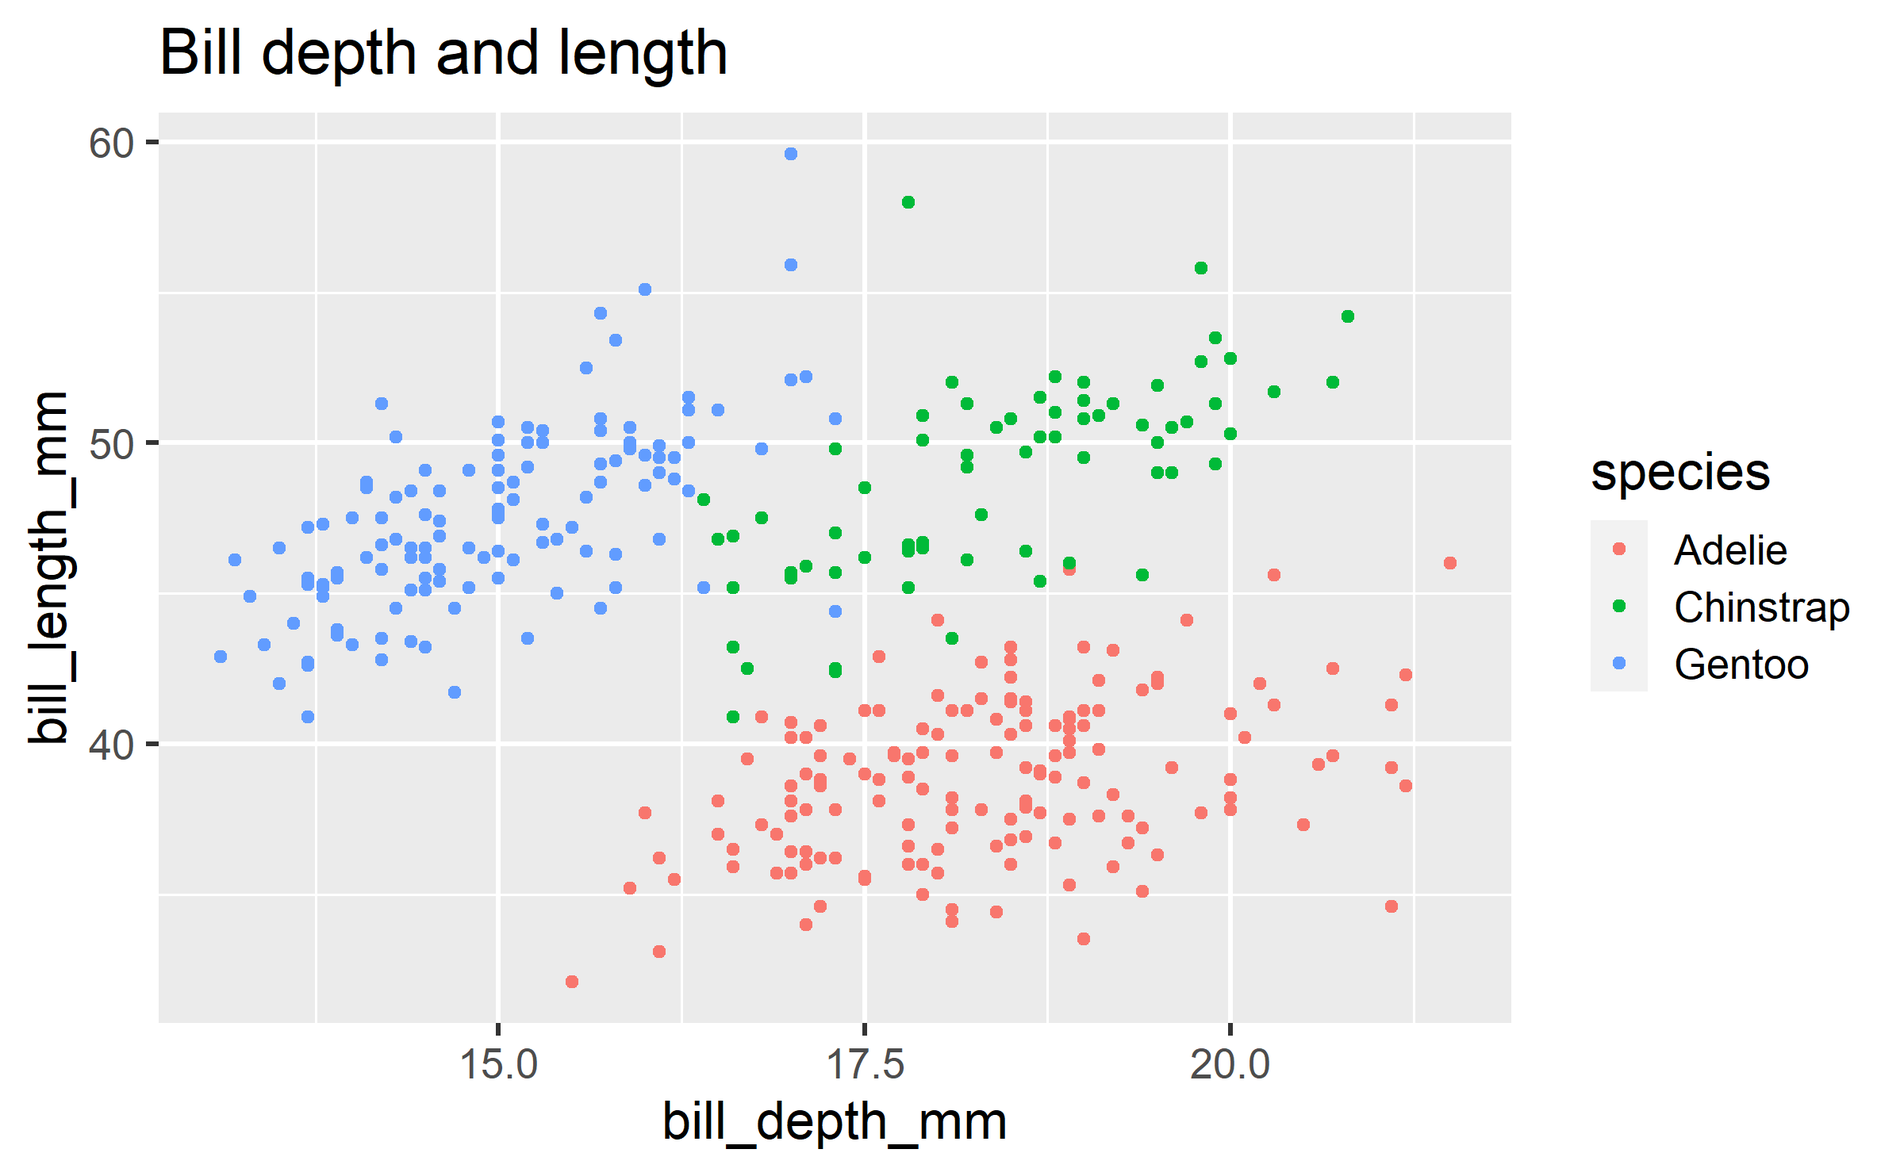
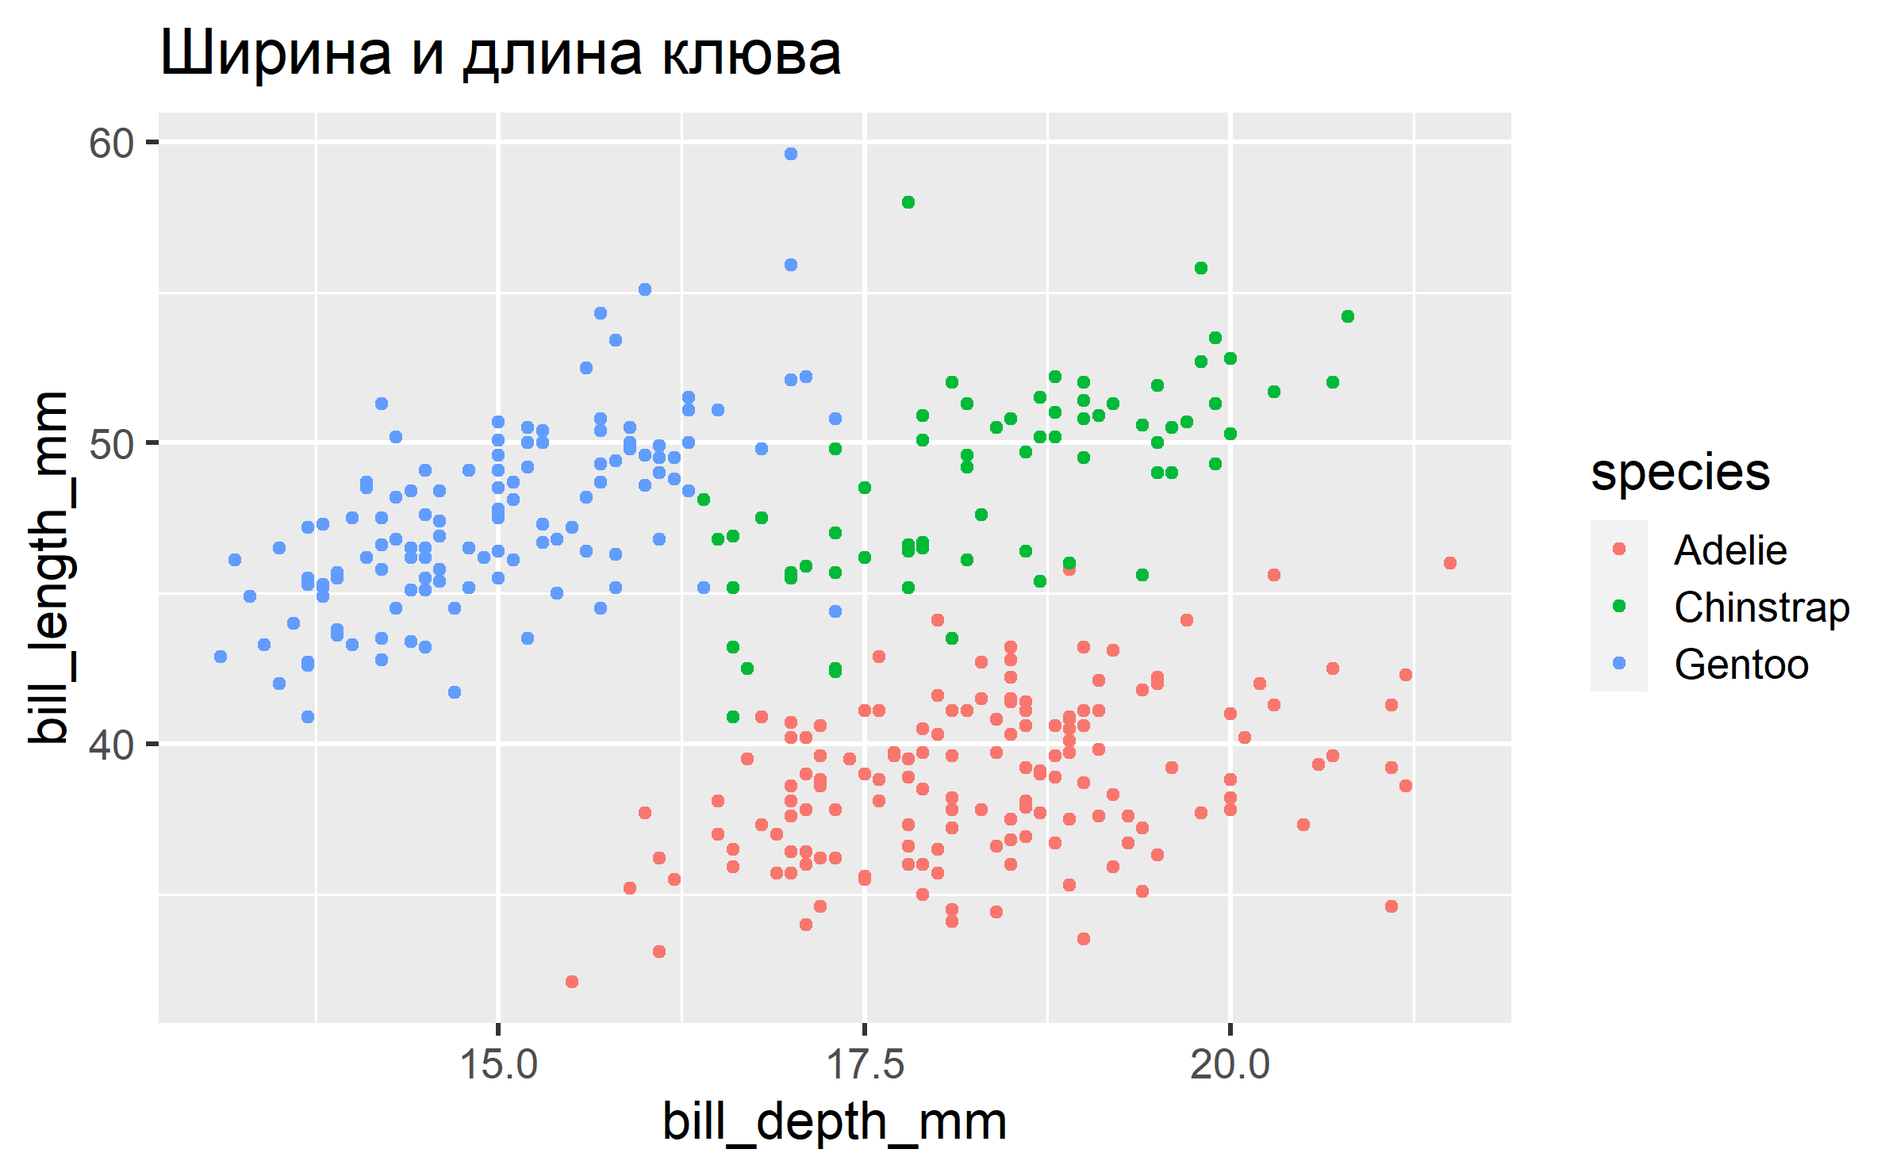
u2-d02 translate penguins

Changed region(s): [[0.0938, 0.0, 0.4375, 0.062]]

diff --git a/course-materials/slides/u2-d02-ggplot2/u2-d02-ggplot2.html b/course-materials/slides/u2-d02-ggplot2/u2-d02-ggplot2.html
@@ -1,7 +1,7 @@
 <!DOCTYPE html>
 <html lang="" xml:lang="">
   <head>
-    <title>Visualising data with ggplot2</title>
+    <title>Визуализация данных в ggplot2</title>
     <meta charset="utf-8" />
     <meta name="author" content="datasciencebox.org" />
     <script src="libs/header-attrs/header-attrs.js"></script>
@@ -16,7 +16,7 @@
     <textarea id="source">
 class: center, middle, inverse, title-slide
 
-# Visualising data with ggplot2
+# Визуализация данных в ggplot2
 ## <br><br> Data Science in a Box
 ### <a href="https://datasciencebox.org/">datasciencebox.org</a>
 
@@ -50,8 +50,8 @@ class: middle
 &lt;img src="img/ggplot2-part-of-tidyverse.png" width="80%" style="display: block; margin: auto;" /&gt;
 ] 
 .pull-right[ 
-- **ggplot2** is tidyverse's data visualization package 
-- Structure of the code for plots can be summarized as
+- **ggplot2** - это пакет визуализации данных, входящий в tidyverse 
+- Структура кода для графика может быть представлена следующим образом
 
 
 ```r
@@ -65,9 +65,9 @@ ggplot(data = [dataset],
 
 ---
 
-## Data: Palmer Penguins
+## Данные: Пингвины архипелага Палмер
 
-Measurements for penguin species, island in Palmer Archipelago, size (flipper length, body mass, bill dimensions), and sex.
+Данные о виде пингвина, острове в архипелаге Палмера, промерах (длина плавника, масса тела, измерения клюва), поле.
 
 .pull-left-narrow[
 &lt;img src="img/penguins.png" width="80%" style="display: block; margin: auto;" /&gt;
@@ -123,12 +123,12 @@ ggplot(data = penguins,
 
 class: middle
 
-# Coding out loud
+# Пишем код шаг за шагом
 
 ---
 
 .midi[
-&gt; **Start with the `penguins` data frame**
+&gt; **Начинаем с фрейма `penguins` **
 ]
 
 .pull-left[
@@ -144,8 +144,8 @@ class: middle
 ---
 
 .midi[
-&gt; Start with the `penguins` data frame,
-&gt; **map bill depth to the x-axis**
+&gt; Начинаем с фрейма `penguins`,
+&gt; **устанавливаем соответствие между высотой клюва и осью `x`**
 ]
 
 .pull-left[
@@ -162,9 +162,9 @@ ggplot(data = penguins,
 ---
 
 .midi[
-&gt; Start with the `penguins` data frame,
-&gt; map bill depth to the x-axis
-&gt; **and map bill length to the y-axis.**
+&gt; Начинаем с фрейма `penguins`,
+&gt; устанавливаем соответствие между высотой клюва и осью `x`
+&gt; **и между длиной клюва и осью `y`.**
 ]
 
 .pull-left[
@@ -182,10 +182,10 @@ ggplot(data = penguins,
 ---
 
 .midi[
-&gt; Start with the `penguins` data frame,
-&gt; map bill depth to the x-axis
-&gt; and map bill length to the y-axis. 
-&gt; **Represent each observation with a point**
+&gt; Начинаем с фрейма `penguins`,
+&gt; устанавливаем соответствие между высотой клюва и осью `x`
+&gt; и между длиной клюва и осью `y`. 
+&gt; **Каждое наблюдение отображаем в виде точки**
 ]
 
 .pull-left[
@@ -204,11 +204,11 @@ ggplot(data = penguins,
 ---
 
 .midi[
-&gt; Start with the `penguins` data frame,
-&gt; map bill depth to the x-axis
-&gt; and map bill length to the y-axis. 
-&gt; Represent each observation with a point
-&gt; **and map species to the colour of each point.**
+&gt; Начинаем с фрейма `penguins`,
+&gt; устанавливаем соответствие между высотой клюва и осью `x`
+&gt; и между длиной клюва и осью `y`. 
+&gt; Каждое наблюдение отображаем в виде точки
+&gt; **и устанавливаем соответствие между видом и цветом точки.**
 ]
 
 .pull-left[
@@ -228,12 +228,12 @@ ggplot(data = penguins,
 ---
 
 .midi[
-&gt; Start with the `penguins` data frame,
-&gt; map bill depth to the x-axis
-&gt; and map bill length to the y-axis. 
-&gt; Represent each observation with a point
-&gt; and map species to the colour of each point.
-&gt; **Title the plot "Bill depth and length"**
+&gt; Начинаем с фрейма `penguins`,
+&gt; устанавливаем соответствие между высотой клюва и осью `x`
+&gt; и между длиной клюва и осью `y`. 
+&gt; Каждое наблюдение отображаем в виде точки
+&gt; и устанавливаем соответствие между видом и цветом точки.
+&gt; **Называем график "Ширина и длина клюва"**
 ]
 
 .pull-left[
@@ -244,7 +244,7 @@ ggplot(data = penguins,
                      y = bill_length_mm,
                      colour = species)) +
   geom_point() +
-* labs(title = "Bill depth and length")
+* labs(title = "Ширина и длина клюва")
 ```
 ]
 .pull-right[
@@ -254,13 +254,13 @@ ggplot(data = penguins,
 ---
 
 .midi[
-&gt; Start with the `penguins` data frame,
-&gt; map bill depth to the x-axis
-&gt; and map bill length to the y-axis. 
-&gt; Represent each observation with a point
-&gt; and map species to the colour of each point.
-&gt; Title the plot "Bill depth and length", 
-&gt; **add the subtitle "Dimensions for Adelie, Chinstrap, and Gentoo Penguins"**
+&gt; Начинаем с фрейма `penguins`,
+&gt; устанавливаем соответствие между высотой клюва и осью `x`
+&gt; и между длиной клюва и осью `y`. 
+&gt; Каждое наблюдение отображаем в виде точки
+&gt; и устанавливаем соответствие между видом и цветом точки.
+&gt; Называем график "Ширина и длина клюва", 
+&gt; **добавляем подзаголовок "Измерения пингвинов Адели, антарктического и субантарктического"**
 ]
 
 .pull-left[
@@ -271,8 +271,8 @@ ggplot(data = penguins,
                      y = bill_length_mm,
                      colour = species)) +
   geom_point() +
-  labs(title = "Bill depth and length",
-*      subtitle = "Dimensions for Adelie, Chinstrap, and Gentoo Penguins")
+  labs(title = "Ширина и длина клюва",
+*      subtitle = "Измерения пингвинов Адели, антарктического и субантарктического")
 ```
 ]
 .pull-right[
@@ -282,14 +282,14 @@ ggplot(data = penguins,
 ---
 
 .midi[
-&gt; Start with the `penguins` data frame,
-&gt; map bill depth to the x-axis
-&gt; and map bill length to the y-axis. 
-&gt; Represent each observation with a point
-&gt; and map species to the colour of each point.
-&gt; Title the plot "Bill depth and length", 
-&gt; add the subtitle "Dimensions for Adelie, Chinstrap, and Gentoo Penguins", 
-&gt; **label the x and y axes as "Bill depth (mm)" and "Bill length (mm)", respectively**
+&gt; Начинаем с фрейма `penguins`,
+&gt; устанавливаем соответствие между высотой клюва и осью `x`
+&gt; и между длиной клюва и осью `y`. 
+&gt; Каждое наблюдение отображаем в виде точки
+&gt; и устанавливаем соответствие между видом и цветом точки.
+&gt; Называем график "Ширина и длина клюва", 
+&gt; добавляем подзаголовок "Измерения пингвинов Адели, антарктического и субантарктического"
+&gt; **и подписи осей "Высота клюва (мм)" и "Длина клюва (мм)"**
 ]
 
 .pull-left[
@@ -300,9 +300,9 @@ ggplot(data = penguins,
                      y = bill_length_mm,
                      colour = species)) +
   geom_point() +
-  labs(title = "Bill depth and length",
-       subtitle = "Dimensions for Adelie, Chinstrap, and Gentoo Penguins",
-*      x = "Bill depth (mm)", y = "Bill length (mm)")
+  labs(title = "Высота и длина клюва",
+       subtitle = "Измерения пингвинов Адели, антарктического и субантарктического",
+*      x = "Высота клюва (мм)", y = "Длина клюва (мм)")
 ```
 ]
 .pull-right[
@@ -312,15 +312,15 @@ ggplot(data = penguins,
 ---
 
 .midi[
-&gt; Start with the `penguins` data frame,
-&gt; map bill depth to the x-axis
-&gt; and map bill length to the y-axis. 
-&gt; Represent each observation with a point
-&gt; and map species to the colour of each point.
-&gt; Title the plot "Bill depth and length", 
-&gt; add the subtitle "Dimensions for Adelie, Chinstrap, and Gentoo Penguins", 
-&gt; label the x and y axes as "Bill depth (mm)" and "Bill length (mm)", respectively,
-&gt; **label the legend "Species"**
+&gt; Начинаем с фрейма `penguins`,
+&gt; устанавливаем соответствие между высотой клюва и осью `x`
+&gt; и между длиной клюва и осью `y`. 
+&gt; Каждое наблюдение отображаем в виде точки
+&gt; и устанавливаем соответствие между видом и цветом точки.
+&gt; Называем график "Ширина и длина клюва", 
+&gt; добавляем подзаголовок "Измерения пингвинов Адели, антарктического и субантарктического"
+&gt; и подписи осей "Высота клюва (мм)" и "Длина клюва (мм)",
+&gt; **а также название легенды "Виды"**
 ]
 
 .pull-left[
@@ -331,10 +331,10 @@ ggplot(data = penguins,
                      y = bill_length_mm,
                      colour = species)) +
   geom_point() +
-  labs(title = "Bill depth and length",
-       subtitle = "Dimensions for Adelie, Chinstrap, and Gentoo Penguins",
-       x = "Bill depth (mm)", y = "Bill length (mm)",
-*      colour = "Species")
+  labs(title = "Высота и длина клюва",
+       subtitle = "Измерения пингвинов Адели, антарктического и субантарктического",
+       x = "Высота клюва (мм)", y = "Длина клюва (мм)",
+*      colour = "Виды")
 ```
 ]
 .pull-right[
@@ -344,16 +344,16 @@ ggplot(data = penguins,
 ---
 
 .midi[
-&gt; Start with the `penguins` data frame,
-&gt; map bill depth to the x-axis
-&gt; and map bill length to the y-axis. 
-&gt; Represent each observation with a point
-&gt; and map species to the colour of each point.
-&gt; Title the plot "Bill depth and length", 
-&gt; add the subtitle "Dimensions for Adelie, Chinstrap, and Gentoo Penguins", 
-&gt; label the x and y axes as "Bill depth (mm)" and "Bill length (mm)", respectively,
-&gt; label the legend "Species", 
-&gt; **and add a caption for the data source.**
+&gt; Начинаем с фрейма `penguins`,
+&gt; устанавливаем соответствие между высотой клюва и осью `x`
+&gt; и между длиной клюва и осью `y`. 
+&gt; Каждое наблюдение отображаем в виде точки
+&gt; и устанавливаем соответствие между видом и цветом точки.
+&gt; Называем график "Ширина и длина клюва", 
+&gt; добавляем подзаголовок "Измерения пингвинов Адели, антарктического и субантарктического"
+&gt; и подписи осей "Высота клюва (мм)" и "Длина клюва (мм)",
+&gt; а также название легенды "Виды"
+&gt; **и подрисуночную подпись с источником данных.**
 ]
 
 .pull-left[
@@ -364,11 +364,11 @@ ggplot(data = penguins,
                      y = bill_length_mm,
                      colour = species)) +
   geom_point() +
-  labs(title = "Bill depth and length",
-       subtitle = "Dimensions for Adelie, Chinstrap, and Gentoo Penguins",
-       x = "Bill depth (mm)", y = "Bill length (mm)",
-       colour = "Species",
-*      caption = "Source: Palmer Station LTER / palmerpenguins package")
+  labs(title = "Высота и длина клюва",
+       subtitle = "Измерения пингвинов Адели, антарктического и субантарктического",
+       x = "Высота клюва (мм)", y = "Длина клюва (мм)",
+       colour = "Виды",
+*      caption = "Источник: Palmer Station LTER / palmerpenguins package")
 ```
 ]
 .pull-right[
@@ -378,17 +378,17 @@ ggplot(data = penguins,
 ---
 
 .midi[
-&gt; Start with the `penguins` data frame,
-&gt; map bill depth to the x-axis
-&gt; and map bill length to the y-axis. 
-&gt; Represent each observation with a point
-&gt; and map species to the colour of each point.
-&gt; Title the plot "Bill depth and length", 
-&gt; add the subtitle "Dimensions for Adelie, Chinstrap, and Gentoo Penguins", 
-&gt; label the x and y axes as "Bill depth (mm)" and "Bill length (mm)", respectively,
-&gt; label the legend "Species", 
-&gt; and add a caption for the data source.
-&gt; **Finally, use a discrete colour scale that is designed to be perceived by viewers with common forms of colour blindness.**
+&gt; Начинаем с фрейма `penguins`,
+&gt; устанавливаем соответствие между высотой клюва и осью `x`
+&gt; и между длиной клюва и осью `y`. 
+&gt; Каждое наблюдение отображаем в виде точки
+&gt; и устанавливаем соответствие между видом и цветом точки.
+&gt; Называем график "Ширина и длина клюва", 
+&gt; добавляем подзаголовок "Измерения пингвинов Адели, антарктического и субантарктического"
+&gt; и подписи осей "Высота клюва (мм)" и "Длина клюва (мм)",
+&gt; а также название легенды "Виды"
+&gt; и подрисуночную подпись с источником данных.
+&gt; **И, наконец, изменим цветовую схему на подходящую для людей с распространенной формой дальтонизма.**
 ]
 
 .pull-left[
@@ -399,11 +399,11 @@ ggplot(data = penguins,
                      y = bill_length_mm,
                      colour = species)) +
   geom_point() +
-  labs(title = "Bill depth and length",
-       subtitle = "Dimensions for Adelie, Chinstrap, and Gentoo Penguins",
-       x = "Bill depth (mm)", y = "Bill length (mm)",
-       colour = "Species",
-       caption = "Source: Palmer Station LTER / palmerpenguins package") +
+  labs(title = "Высота и длина клюва",
+       subtitle = "Измерения пингвинов Адели, антарктического и субантарктического",
+       x = "Высота клюва (мм)", y = "Длина клюва (мм)",
+       colour = "Виды",
+       caption = "Источник: Palmer Station LTER / palmerpenguins package") +
 * scale_colour_viridis_d()
 ```
 ]
@@ -426,11 +426,11 @@ ggplot(data = penguins,
                      y = bill_length_mm,
                      colour = species)) +
   geom_point() +
-  labs(title = "Bill depth and length",
-       subtitle = "Dimensions for Adelie, Chinstrap, and Gentoo Penguins",
-       x = "Bill depth (mm)", y = "Bill length (mm)",
-       colour = "Species",
-       caption = "Source: Palmer Station LTER / palmerpenguins package") +
+  labs(title = "Высота и длина клюва",
+       subtitle = "Измерения пингвинов Адели, антарктического и субантарктического",
+       x = "Высота клюва (мм)", y = "Длина клюва (мм)",
+       colour = "Виды",
+       caption = "Источник: Palmer Station LTER / palmerpenguins package") +
   scale_colour_viridis_d()
 ```
 
